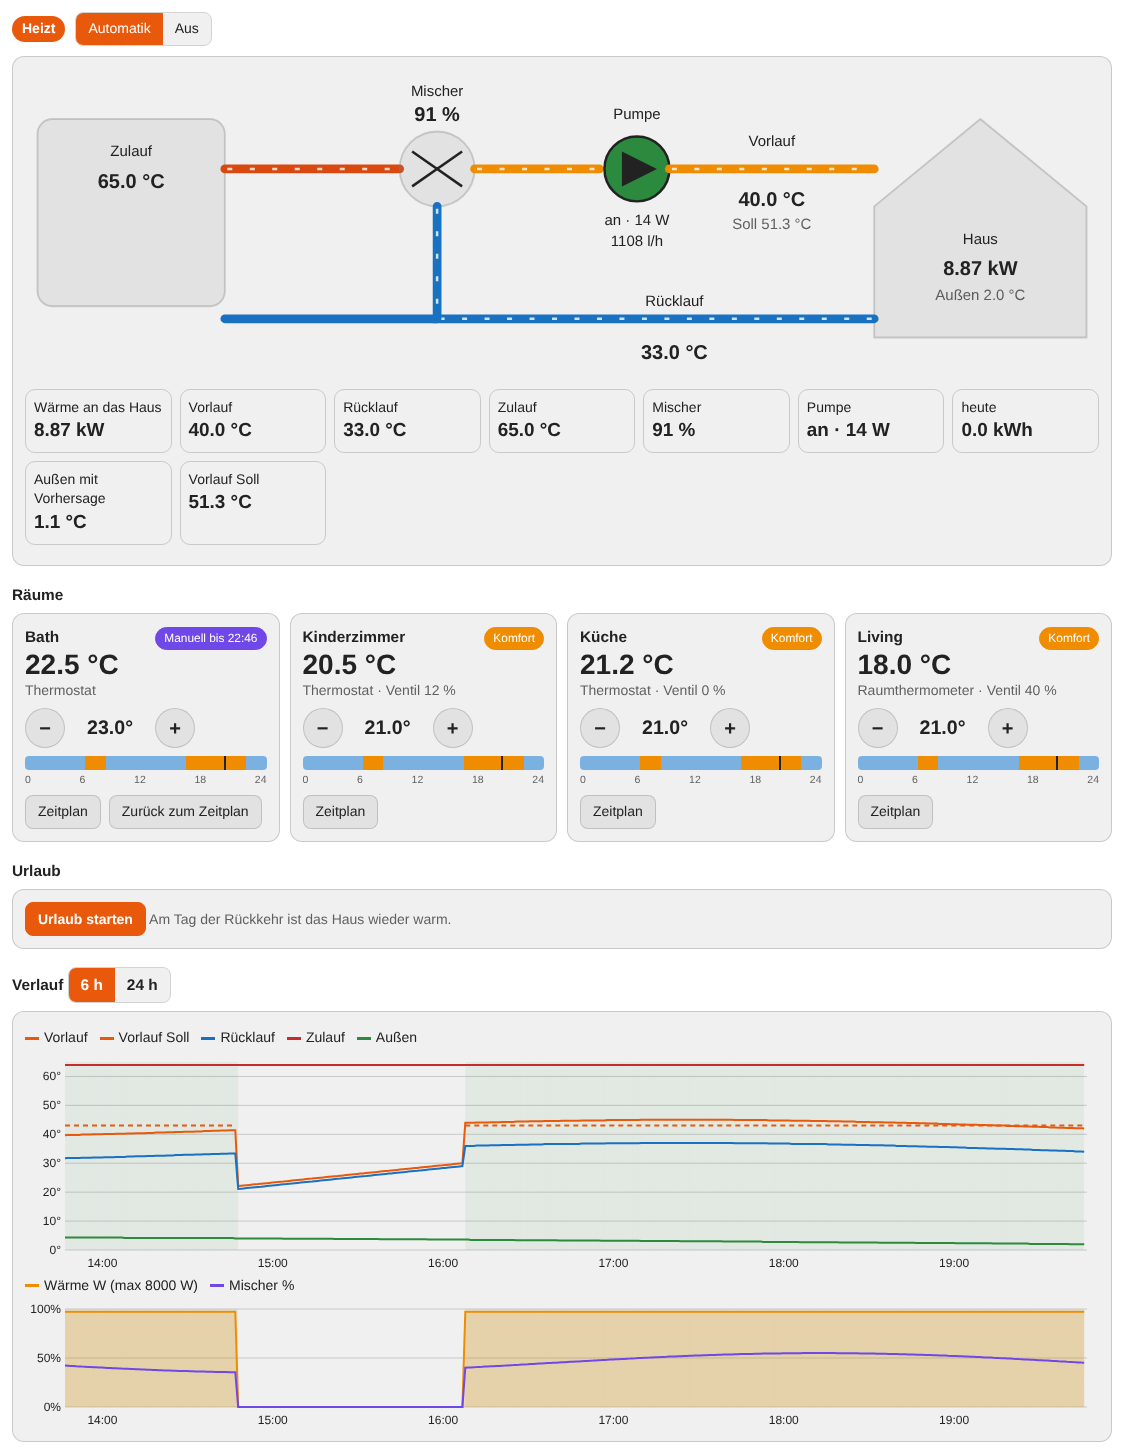
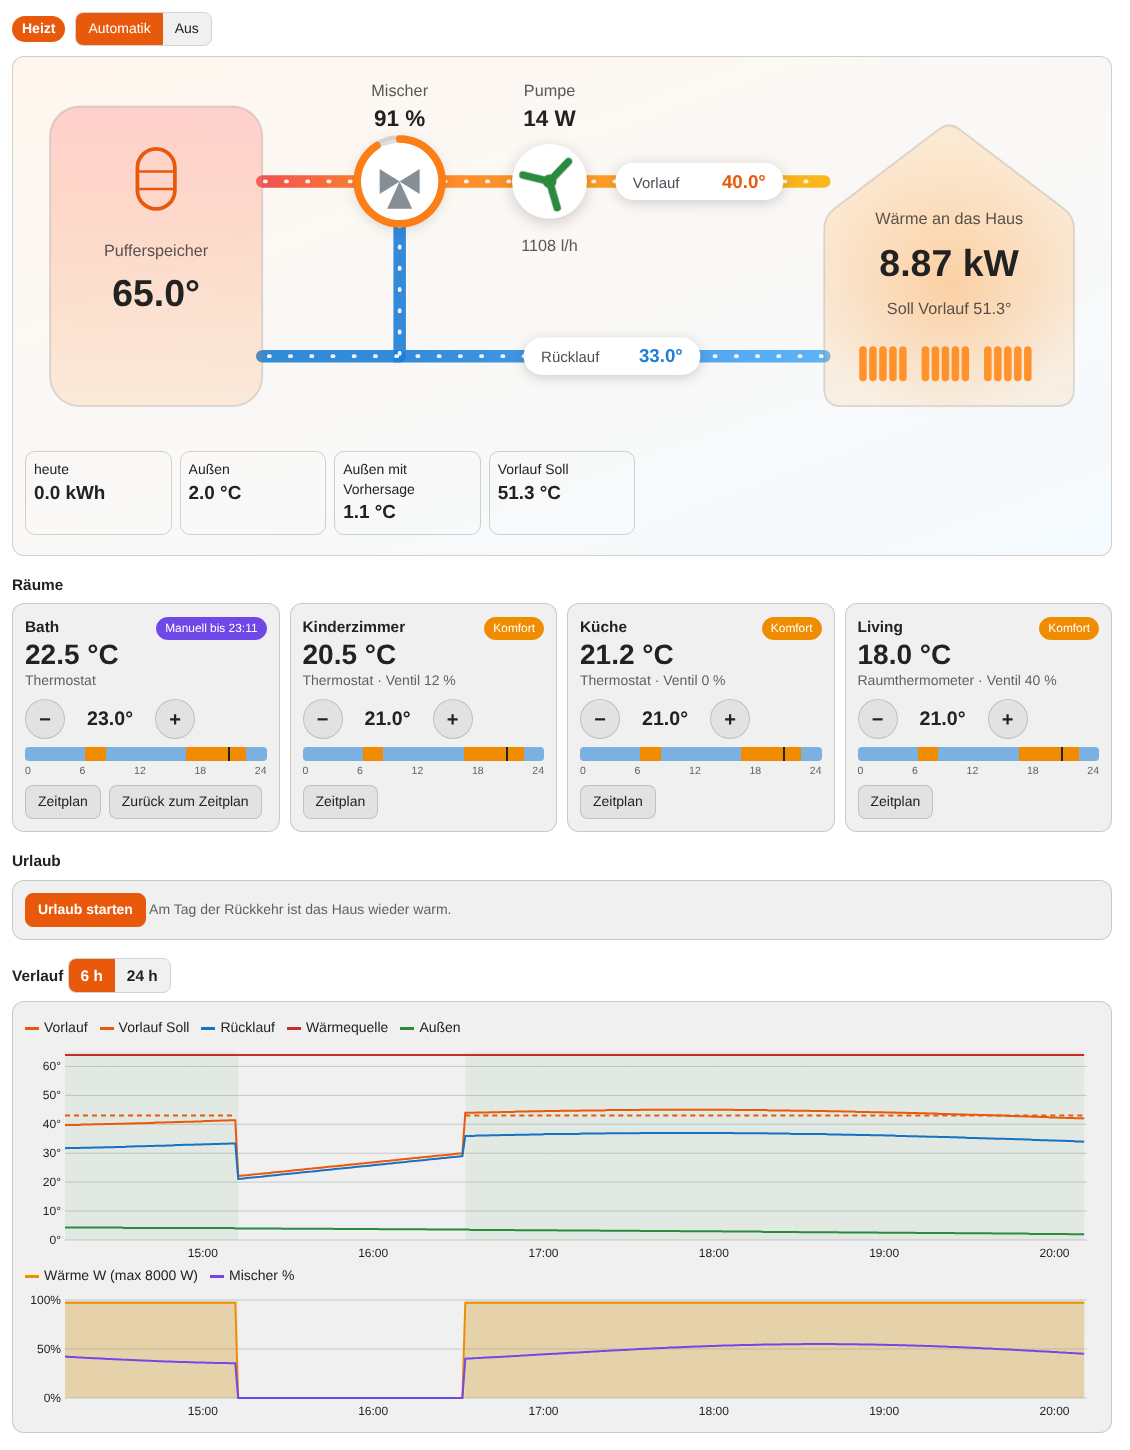
feat(heating_control): modern hydraulic picture, heat source type instead of supply
Claude-Session: https://claude.ai/code/session_01SXixEbUFp3gc7Upey2uY8f

Changed region(s): [[0.0, 0.0621, 0.9912, 0.9931], [0.8982, 0.4034, 0.9912, 0.4655], [0.5575, 0.2793, 0.6195, 0.3103]]

diff --git a/FHEM/bindings/python/fhempy/lib/heating_control/www/heating_control.js b/FHEM/bindings/python/fhempy/lib/heating_control/www/heating_control.js
@@ -4,7 +4,7 @@ var T = {
   de: {
     heating: "Heizt", idle: "Bereit", warm: "Räume warm", summer: "Sommer – keine Heizung",
     frost: "Frostschutz", off: "Aus (misst nur)", vacation: "Urlaub", setup: "Einrichtung fehlt",
-    auto: "Automatik", mode_off: "Aus", supply: "Zulauf", mixer: "Mischer", pump: "Pumpe",
+    auto: "Automatik", mode_off: "Aus", supply: "Wärmequelle", mixer: "Mischer", pump: "Pumpe",
     flow: "Vorlauf", ret: "Rücklauf", target: "Soll", house: "Haus", outdoor: "Außen",
     outdoor_eff: "mit Vorhersage", heat: "Wärme an das Haus", today: "heute", total: "gesamt",
     on: "an", off_: "aus", rooms: "Räume", comfort: "Komfort", eco: "Eco", manual: "Manuell",
@@ -26,14 +26,17 @@ var T = {
     no_rooms: "Keine Thermostate gefunden.", valve: "Ventil", source_t: "Raumthermometer",
     source_s: "Thermostat", flow_lh: "l/h", now: "jetzt", setup_missing: "Bitte noch einrichten:",
     roles: {mixer: "Mischer (0–100 %)", pump: "Umwälzpumpe (an/aus)", flow_sensor: "Vorlauf-Temperatur",
-      return_sensor: "Rücklauf-Temperatur", supply_sensor: "Zulauf (vor dem Mischer)",
+      return_sensor: "Rücklauf-Temperatur", supply_sensor: "Wärmequelle (Temperatur vor dem Mischer)",
       outdoor_sensor: "Außentemperatur (sonst vom Wetter)"},
-    days: ["Mo", "Di", "Mi", "Do", "Fr", "Sa", "So"]
+    days: ["Mo", "Di", "Mi", "Do", "Fr", "Sa", "So"],
+    source_type: "Art der Wärmequelle",
+    sources: {buffer: "Pufferspeicher", heatpump: "Wärmepumpe", wood: "Holzofen", pellet: "Pelletkessel",
+      gas: "Gastherme", oil: "Ölkessel", district: "Fernwärme", solar: "Solarthermie"}
   },
   en: {
     heating: "Heating", idle: "Ready", warm: "Rooms warm", summer: "Summer – no heating",
     frost: "Frost protection", off: "Off (measuring only)", vacation: "Vacation", setup: "Setup missing",
-    auto: "Automatic", mode_off: "Off", supply: "Supply", mixer: "Mixer", pump: "Pump",
+    auto: "Automatic", mode_off: "Off", supply: "Heat source", mixer: "Mixer", pump: "Pump",
     flow: "Flow", ret: "Return", target: "Target", house: "House", outdoor: "Outdoor",
     outdoor_eff: "with forecast", heat: "Heat to the house", today: "today", total: "total",
     on: "on", off_: "off", rooms: "Rooms", comfort: "Comfort", eco: "Eco", manual: "Manual",
@@ -55,9 +58,12 @@ var T = {
     no_rooms: "No thermostats found.", valve: "Valve", source_t: "room thermometer",
     source_s: "thermostat", flow_lh: "l/h", now: "now", setup_missing: "Please set up:",
     roles: {mixer: "Mixer (0–100 %)", pump: "Circulation pump (on/off)", flow_sensor: "Flow temperature",
-      return_sensor: "Return temperature", supply_sensor: "Supply (before the mixer)",
+      return_sensor: "Return temperature", supply_sensor: "Heat source (temperature before the mixer)",
       outdoor_sensor: "Outdoor temperature (else from weather)"},
-    days: ["Mo", "Tu", "We", "Th", "Fr", "Sa", "Su"]
+    days: ["Mo", "Tu", "We", "Th", "Fr", "Sa", "Su"],
+    source_type: "Type of heat source",
+    sources: {buffer: "Buffer tank", heatpump: "Heat pump", wood: "Wood stove", pellet: "Pellet boiler",
+      gas: "Gas boiler", oil: "Oil boiler", district: "District heating", solar: "Solar thermal"}
   }
 };
 var L = T[window.FHC_LANG] || T.en;
@@ -130,53 +136,105 @@ function dateText(iso) {
 }
 
 // --- hydraulic diagram ---
+var SOURCE_ICONS = {
+  buffer: '<rect x="-15" y="-24" width="30" height="48" rx="15" class="ic"/><path d="M-15 -6 H15 M-15 8 H15" class="ic thin"/>',
+  heatpump: '<rect x="-24" y="-18" width="48" height="36" rx="8" class="ic"/><circle cx="-6" cy="0" r="11" class="ic"/>' +
+    '<path d="M-6 -11 V11 M-17 0 H5" class="ic thin"/><path d="M12 -8 H18 M12 0 H18 M12 8 H18" class="ic thin"/>',
+  wood: '<path d="M0 -24 C10 -12 14 -6 10 4 C8 10 4 12 0 12 C-4 12 -9 9 -10 3 C-12 -6 -4 -10 0 -24 Z" class="ic"/>' +
+    '<path d="M-18 18 L18 24 M-18 24 L18 18" class="ic"/>',
+  pellet: '<path d="M0 -22 C10 -10 13 -4 9 6 C7 11 4 13 0 13 C-4 13 -9 10 -10 4 C-12 -4 -4 -8 0 -22 Z" class="ic"/>' +
+    '<circle cx="-10" cy="21" r="2.5" class="icf"/><circle cx="0" cy="22" r="2.5" class="icf"/><circle cx="10" cy="21" r="2.5" class="icf"/>',
+  gas: '<path d="M0 -24 C12 -10 16 -2 12 8 C9 16 4 18 0 18 C-4 18 -11 15 -12 7 C-14 -4 -4 -10 0 -24 Z" class="ic"/>' +
+    '<path d="M0 0 C5 6 5 12 0 14 C-5 12 -5 6 0 0 Z" class="ic thin"/>',
+  oil: '<path d="M0 -24 C10 -8 16 0 16 8 C16 17 9 22 0 22 C-9 22 -16 17 -16 8 C-16 0 -10 -8 0 -24 Z" class="ic"/>',
+  district: '<rect x="-22" y="-6" width="16" height="28" rx="3" class="ic"/><rect x="-2" y="-20" width="22" height="42" rx="3" class="ic"/>' +
+    '<path d="M4 -10 H14 M4 0 H14 M4 10 H14" class="ic thin"/>',
+  solar: '<circle cx="-8" cy="-12" r="7" class="ic"/><path d="M-22 22 L-12 4 H22 L12 22 Z M-17 13 H17 M5 4 L-5 22" class="ic thin"/>'
+};
+function pill(x, y, label, value, cls) {
+  // on a phone the drawing is scaled down, its texts are bigger (css)
+  var k = 1;
+  var w = k * (38 + label.length * 7 + value.length * 9.5), hh = 30 * k;
+  return '<g class="pillg" transform="translate(' + (x - w / 2) + ' ' + (y - hh / 2) + ')"><rect width="' + w + '" height="' + hh +
+    '" rx="' + hh / 2 + '" class="pill ' + (cls || "") + '"/><text x="' + 14 * k + '" y="' + 20 * k + '" class="pl">' +
+    esc(label) + '</text><text x="' + (w - 14 * k) + '" y="' + 20 * k + '" text-anchor="end" class="pv">' + esc(value) + '</text></g>';
+}
+function arc(cx, cy, r, pct) {
+  pct = Math.max(0, Math.min(100, pct || 0));
+  if (pct >= 99.9) return '<circle cx="' + cx + '" cy="' + cy + '" r="' + r + '" class="ring on"/>';
+  var a = pct / 100 * 2 * Math.PI, x = cx + r * Math.sin(a), y = cy - r * Math.cos(a);
+  return '<path class="ring on" d="M' + cx + ' ' + (cy - r) + ' A' + r + ' ' + r + ' 0 ' + (pct > 50 ? 1 : 0) +
+    ' 1 ' + x.toFixed(1) + ' ' + y.toFixed(1) + '"/>';
+}
+function heatText(w) {
+  if (w === null || w === undefined) return "–";
+  return w >= 1000 ? num(w / 1000, 2, " kW") : num(w, 0, " W");
+}
 function scheme() {
   var h = D.house || {};
-  var pumpText = h.pump ? L.on + (h.pump_power ? " · " + num(h.pump_power, 0, " W") : "") : L.off_;
-  var flowText = h.flow_lh ? num(h.flow_lh, 0, " " + L.flow_lh) : "";
-  var heat = h.heat_w !== null && h.heat_w !== undefined ? (h.heat_w >= 1000 ?
-    num(h.heat_w / 1000, 2, " kW") : num(h.heat_w, 0, " W")) : "–";
-  var s = '<svg viewBox="0 0 860 250" role="img" aria-label="' + esc(L.heat) + '">';
-  // supply from the heat source
-  s += '<rect class="box" x="10" y="40" width="150" height="150" rx="12"/>';
-  s += '<text x="85" y="70" text-anchor="middle">' + L.supply + '</text>';
-  s += '<text class="big" x="85" y="95" text-anchor="middle">' + deg(h.supply) + '</text>';
-  s += '<path class="pipe hot" d="M160 80 H300"/><path class="flowdash" d="M160 80 H300"/>';
-  // mixer
-  s += '<circle class="box" cx="330" cy="80" r="30"/>';
-  s += '<path d="M310 66 L350 94 M310 94 L350 66" stroke="currentColor" stroke-width="2"/>';
-  s += '<text x="330" y="22" text-anchor="middle">' + L.mixer + '</text>';
-  s += '<text class="big" x="330" y="42" text-anchor="middle">' + num(h.mixer, 0, " %") + '</text>';
-  s += '<path class="pipe warm" d="M360 80 H460"/><path class="flowdash" d="M360 80 H460"/>';
-  // pump
-  s += '<circle class="pump" cx="490" cy="80" r="26"/>';
-  s += '<path d="M478 66 L506 80 L478 94 Z" fill="currentColor"/>';
-  s += '<text x="490" y="40" text-anchor="middle">' + L.pump + '</text>';
-  s += '<text x="490" y="125" text-anchor="middle">' + esc(pumpText) + '</text>';
-  s += '<text x="490" y="142" text-anchor="middle">' + esc(flowText) + '</text>';
-  s += '<path class="pipe warm" d="M516 80 H680"/><path class="flowdash" d="M516 80 H680"/>';
-  s += '<text x="598" y="62" text-anchor="middle">' + L.flow + '</text>';
-  s += '<text class="big" x="598" y="110" text-anchor="middle">' + deg(h.flow) + '</text>';
-  s += '<text x="598" y="128" text-anchor="middle" class="muted">' + L.target + " " + deg(h.flow_target) + '</text>';
+  var src = SOURCE_ICONS[D.heat_source] ? D.heat_source : "buffer";
+  var pumpText = h.pump ? (h.pump_power ? num(h.pump_power, 0, " W") : L.on) : L.off_;
+  var flowText = h.pump && h.flow_lh ? num(h.flow_lh, 0, " " + L.flow_lh) : "";
+  var s = '<svg viewBox="0 0 860 300" role="img" aria-label="' + esc(L.heat) + '"><defs>' +
+    '<linearGradient id="fhcHot" gradientUnits="userSpaceOnUse" x1="190" x2="290"><stop offset="0" stop-color="#f03e3e"/><stop offset="1" stop-color="#fd7e14"/></linearGradient>' +
+    '<linearGradient id="fhcWarm" gradientUnits="userSpaceOnUse" x1="330" x2="640"><stop offset="0" stop-color="#fd7e14"/><stop offset="1" stop-color="#fab005"/></linearGradient>' +
+    '<linearGradient id="fhcCold" gradientUnits="userSpaceOnUse" x1="640" x2="300"><stop offset="0" stop-color="#4dabf7"/><stop offset="1" stop-color="#1c7ed6"/></linearGradient>' +
+    '<linearGradient id="fhcSrc" x1="0" y1="0" x2="0" y2="1"><stop offset="0" stop-color="#ff8787" stop-opacity=".35"/>' +
+    '<stop offset="1" stop-color="#fd7e14" stop-opacity=".12"/></linearGradient>' +
+    '<linearGradient id="fhcHouse" x1="0" y1="0" x2="0" y2="1"><stop offset="0" stop-color="#ffd8a8" stop-opacity=".45"/>' +
+    '<stop offset="1" stop-color="#ffa94d" stop-opacity=".12"/></linearGradient>' +
+    '<radialGradient id="fhcGlow"><stop offset="0" stop-color="#ff922b" stop-opacity=".55"/><stop offset="1" stop-color="#ff922b" stop-opacity="0"/></radialGradient>' +
+    '</defs>';
+  // pipes first, everything else on top
+  s += '<path class="pipe" stroke="url(#fhcHot)" d="M190 90 H266"/>';
+  s += '<path class="pipe" stroke="url(#fhcWarm)" d="M334 90 H640"/>';
+  s += '<path class="pipe" stroke="url(#fhcCold)" d="M640 230 H300 V124"/>';
+  s += '<path class="pipe" stroke="#1c7ed6" d="M300 230 H190"/>';
+  ["M190 90 H266", "M334 90 H640", "M640 230 H300 V124", "M300 230 H190"].forEach(function(d) {
+    s += '<path class="flowdash" d="' + d + '"/>';
+  });
+  // heat source
+  s += '<rect x="20" y="30" width="170" height="240" rx="24" class="tile" fill="url(#fhcSrc)"/>';
+  s += '<g transform="translate(105 88)">' + SOURCE_ICONS[src] + '</g>';
+  s += '<text x="105" y="150" text-anchor="middle" class="tl">' + esc(L.sources[src]) + '</text>';
+  s += '<text x="105" y="190" text-anchor="middle" class="tv">' + num(h.supply, 1, "°") + '</text>';
+  // mixer: valve with a ring for its position
+  s += '<circle cx="300" cy="90" r="34" class="node"/><circle cx="300" cy="90" r="34" class="ring"/>' + arc(300, 90, 34, h.mixer);
+  s += '<path d="M284 80 L300 90 L284 100 Z M316 80 L300 90 L316 100 Z M290 112 L300 90 L310 112 Z" class="valve"/>';
+  s += '<text x="300" y="22" text-anchor="middle" class="tl">' + L.mixer + '</text>';
+  s += '<text x="300" y="46" text-anchor="middle" class="tv sm">' + num(h.mixer, 0, " %") + '</text>';
+  // pump with a turning impeller
+  s += '<circle cx="420" cy="90" r="30" class="node pumpnode"/>';
+  s += '<g class="impeller" style="transform-origin:420px 90px"><path d="M420 90 L420 68 M420 90 L439 101 M420 90 L401 101" class="blade"/>' +
+    '<circle cx="420" cy="90" r="5" class="hub"/></g>';
+  s += '<text x="420" y="22" text-anchor="middle" class="tl">' + L.pump + '</text>';
+  s += '<text x="420" y="46" text-anchor="middle" class="tv sm">' + esc(pumpText) + '</text>';
+  if (flowText) s += '<text x="420" y="146" text-anchor="middle" class="tl">' + esc(flowText) + '</text>';
+  s += pill(540, 90, L.flow, num(h.flow, 1, "°"), "hot");
+  s += pill(470, 230, L.ret, num(h["return"], 1, "°"), "cold");
   // house
-  s += '<path class="box" d="M680 110 L765 40 L850 110 V215 H680 Z"/>';
-  s += '<text x="765" y="140" text-anchor="middle">' + L.house + '</text>';
-  s += '<text class="big" x="765" y="165" text-anchor="middle">' + heat + '</text>';
-  s += '<text x="765" y="185" text-anchor="middle" class="muted">' + L.outdoor + " " + deg(h.outdoor) + '</text>';
-  // return
-  s += '<path class="pipe cold" d="M680 200 H330 V110"/><path class="flowdash" d="M680 200 H330 V110"/>';
-  s += '<path class="pipe cold" d="M330 200 H160"/>';
-  s += '<text x="520" y="190" text-anchor="middle">' + L.ret + '</text>';
-  s += '<text class="big" x="520" y="232" text-anchor="middle">' + deg(h["return"]) + '</text>';
+  s += '<circle cx="740" cy="170" r="110" fill="url(#fhcGlow)" class="glow"/>';
+  s += '<path d="M640 128 Q640 118 648 112 L732 48 Q740 42 748 48 L832 112 Q840 118 840 128 V256 Q840 270 826 270 H654 Q640 270 640 256 Z"' +
+    ' class="tile" fill="url(#fhcHouse)"/>';
+  [668, 718, 768].forEach(function(x) {
+    s += '<g class="radiator">';
+    for (var i = 0; i < 5; i++) s += '<rect x="' + (x + i * 8) + '" y="222" width="6" height="28" rx="3"/>';
+    s += '</g>';
+  });
+  s += '<text x="740" y="124" text-anchor="middle" class="tl">' + L.heat + '</text>';
+  s += '<text x="740" y="166" text-anchor="middle" class="tv">' + heatText(h.heat_w) + '</text>';
+  s += '<text x="740" y="196" text-anchor="middle" class="tl">' + L.target + " " + L.flow + " " + num(h.flow_target, 1, "°") + '</text>';
   s += '</svg>';
   var k = '<div class="kpi">';
-  k += '<div>' + L.heat + '<b>' + heat + '</b></div>';
-  k += '<div>' + L.flow + '<b>' + deg(h.flow) + '</b></div>';
-  k += '<div>' + L.ret + '<b>' + deg(h["return"]) + '</b></div>';
-  k += '<div>' + L.supply + '<b>' + deg(h.supply) + '</b></div>';
-  k += '<div>' + L.mixer + '<b>' + num(h.mixer, 0, " %") + '</b></div>';
-  k += '<div>' + L.pump + '<b>' + esc(pumpText) + '</b></div>';
+  // on a phone the drawing only shows pictures, the values are here
+  k += '<div class="mob">' + L.flow + '<b>' + deg(h.flow) + '</b></div>';
+  k += '<div class="mob">' + L.ret + '<b>' + deg(h["return"]) + '</b></div>';
+  k += '<div class="mob">' + esc(L.sources[src]) + '<b>' + deg(h.supply) + '</b></div>';
+  k += '<div class="mob">' + L.mixer + '<b>' + num(h.mixer, 0, " %") + '</b></div>';
+  k += '<div class="mob">' + L.pump + '<b>' + esc(pumpText) + (flowText ? " · " + esc(flowText) : "") + '</b></div>';
+  k += '<div class="mob">' + L.heat + '<b>' + heatText(h.heat_w) + '</b></div>';
   k += '<div>' + L.today + '<b>' + num(h.heat_today, 1, " kWh") + '</b></div>';
+  k += '<div>' + L.outdoor + '<b>' + deg(h.outdoor) + '</b></div>';
   k += '<div>' + L.outdoor + " " + L.outdoor_eff + '<b>' + deg(h.outdoor_eff) + '</b></div>';
   k += '<div>' + L.flow + " " + L.target + '<b>' + deg(h.flow_target) + '</b></div>';
   k += '</div>';
@@ -661,6 +719,9 @@ function setup() {
     h += '<tr><td>' + L.roles[attr] + '</td><td>' + control +
       '</td><td><button data-attr="' + attr + '">' + L.apply + '</button></td></tr>';
   });
+  h += '<tr><td>' + L.source_type + '</td><td>' + select("fhcA_heat_source", D.heat_source,
+    Object.keys(L.sources).map(function(k) { return [k, L.sources[k]]; }), "") +
+    '</td><td><button data-attr="heat_source">' + L.apply + '</button></td></tr>';
   h += '<tr><td>' + L.pump_model + '</td><td>' + select("fhcA_pump_model", st.pump_model,
     st.pump_models.map(function(m) { return [m, m]; }), "") + '</td><td><button data-attr="pump_model">' + L.apply + '</button></td></tr>';
   h += '<tr><td>' + L.pump_setting + '</td><td>' + select("fhcA_pump_setting", st.pump_setting,
@@ -723,7 +784,7 @@ root.addEventListener("click", function(ev) {
 window.fhcLive = function(data) {
   if (!data || data.name !== DEV) return;
   var point = data.point;
-  ["mode", "state", "house", "rooms", "vacation", "now"].forEach(function(k) { if (k in data) D[k] = data[k]; });
+  ["mode", "heat_source", "state", "house", "rooms", "vacation", "now"].forEach(function(k) { if (k in data) D[k] = data[k]; });
   D.history = D.history || [];
   if (point && (!D.history.length || D.history[D.history.length - 1][0] < point[0])) D.history.push(point);
   if (D.curve && D.house) D.curve.current = [D.house.outdoor_eff, D.house.flow_target];

diff --git a/FHEM/bindings/python/fhempy/lib/heating_control/www/heating_control.css b/FHEM/bindings/python/fhempy/lib/heating_control/www/heating_control.css
@@ -1,4 +1,4 @@
-.fhc{--hot:#d9480f;--warm:#e8590c;--cold:#1971c2;--eco:#1c7ed6;--comfort:#f08c00;
+.fhc{--card:rgba(128,128,128,.16);--hot:#d9480f;--warm:#e8590c;--cold:#1971c2;--eco:#1c7ed6;--comfort:#f08c00;
 --ok:#2b8a3e;--line:rgba(128,128,128,.35);--soft:rgba(128,128,128,.12);
 max-width:1100px;margin:0 0 18px 0;line-height:1.4;font-size:14px}
 .fhc *{box-sizing:border-box}
@@ -25,16 +25,36 @@ font-weight:bold;line-height:1}
 .fhc .scheme svg,.fhc .chart svg{width:100%;height:auto;display:block}
 .fhc svg text{fill:currentColor;font-size:12px}
 .fhc svg .big{font-size:16px;font-weight:bold}
-.fhc svg .pipe{fill:none;stroke-width:7;stroke-linecap:round}
-.fhc svg .pipe.hot{stroke:var(--hot)}
-.fhc svg .pipe.warm{stroke:var(--comfort)}
-.fhc svg .pipe.cold{stroke:var(--cold)}
-.fhc svg .flowdash{fill:none;stroke:#fff;stroke-width:2;stroke-dasharray:4 14;opacity:0}
-.fhc.running svg .flowdash{opacity:.8;animation:fhcflow 1.2s linear infinite}
-@keyframes fhcflow{to{stroke-dashoffset:-18}}
-.fhc svg .box{fill:var(--soft);stroke:var(--line);stroke-width:1.5}
-.fhc svg .pump{fill:var(--soft);stroke:currentColor;stroke-width:2}
-.fhc.running svg .pump{fill:var(--ok)}
+.fhc .scheme{background:linear-gradient(160deg,rgba(255,146,43,.08),rgba(77,171,247,.06))}
+.fhc svg .pipe{fill:none;stroke-width:10;stroke-linecap:round;opacity:.9}
+.fhc svg .flowdash{fill:none;stroke:#fff;stroke-width:3;stroke-linecap:round;stroke-dasharray:1 16;opacity:0}
+.fhc.running svg .flowdash{opacity:.9;animation:fhcflow .9s linear infinite}
+@keyframes fhcflow{to{stroke-dashoffset:-17}}
+.fhc svg .tile{stroke:rgba(128,128,128,.25);stroke-width:1.5}
+.fhc svg .node{fill:#fff;stroke:none;filter:drop-shadow(0 3px 6px rgba(0,0,0,.18))}
+.fhc svg .ring{fill:none;stroke:rgba(128,128,128,.25);stroke-width:6}
+.fhc svg .ring.on{stroke:#fd7e14;stroke-linecap:round}
+.fhc svg .valve{fill:#868e96}
+.fhc svg .blade{stroke:#868e96;stroke-width:6;stroke-linecap:round}
+.fhc svg .hub{fill:#868e96}
+.fhc.running svg .blade,.fhc.running svg .hub{stroke:#2b8a3e;fill:#2b8a3e}
+.fhc.running svg .impeller{animation:fhcspin 1.1s linear infinite}
+@keyframes fhcspin{to{transform:rotate(360deg)}}
+.fhc svg .glow{opacity:0;transition:opacity 1s}
+.fhc.running svg .glow{opacity:.6}
+.fhc svg .radiator rect{fill:#adb5bd}
+.fhc.running svg .radiator rect{fill:#ff922b}
+.fhc svg .ic{fill:none;stroke:#e8590c;stroke-width:3;stroke-linejoin:round;stroke-linecap:round}
+.fhc svg .ic.thin{stroke-width:2}
+.fhc svg .icf{fill:#e8590c}
+.fhc svg .tl{font-size:13px;opacity:.75}
+.fhc svg .tv{font-size:30px;font-weight:bold}
+.fhc svg .tv.sm{font-size:18px}
+.fhc svg .pill{fill:#fff;filter:drop-shadow(0 2px 5px rgba(0,0,0,.18))}
+.fhc svg .pl{font-size:12px;fill:#495057}
+.fhc svg .pv{font-size:15px;font-weight:bold;fill:#212529}
+.fhc svg .pill.hot~.pv{fill:#e8590c}
+.fhc svg .pill.cold~.pv{fill:#1c7ed6}
 .fhc svg .gl{stroke:var(--line);stroke-width:1}
 .fhc svg .l{fill:none;stroke-width:2}
 .fhc svg .area{opacity:.25}
@@ -75,4 +95,5 @@ max-width:100%}
 margin:8px 0}
 .fhc .kpi div{border:1px solid var(--line);border-radius:10px;padding:8px}
 .fhc .kpi b{display:block;font-size:1.35em}
-@media (max-width:600px){.fhc .scheme .wide{overflow-x:auto}.fhc .scheme .wide svg{min-width:620px}.fhc .room .temp{font-size:1.7em}}
+.fhc .kpi .mob{display:none}
+@media (max-width:600px){.fhc svg .tl,.fhc svg .tv,.fhc svg .pillg{display:none}.fhc .kpi .mob{display:block}.fhc .room .temp{font-size:1.7em}}

diff --git a/FHEM/bindings/python/fhempy/lib/heating_control/heating_control.py b/FHEM/bindings/python/fhempy/lib/heating_control/heating_control.py
@@ -45,11 +45,21 @@ GETS = {
 }
 ROOM_KEY = re.compile(r"[^A-Za-z0-9_]")
 MODES = ("auto", "off")
+HEAT_SOURCES = (
+    "buffer",
+    "heatpump",
+    "wood",
+    "pellet",
+    "gas",
+    "oil",
+    "district",
+    "solar",
+)
 
 ATTRS = {
     "mixer": {
         "default": "",
-        "help": "Mixer 0-100 %: device[:set command], e.g. Mischer:pct. "
+        "help": "Mixer 0-100 %: device[:set command], e.g. mixer:pct. "
         "Choose it on the detail page.",
     },
     "mixer_invert": {
@@ -108,8 +118,14 @@ ATTRS = {
     },
     "supply_sensor": {
         "default": "",
-        "help": "Temperature before the mixer (Zulauf, from the heat source): "
-        "device:reading.",
+        "help": "Temperature of the heat source before the mixer: device:reading.",
+    },
+    "heat_source": {
+        "default": "buffer",
+        "options": ",".join(HEAT_SOURCES),
+        "help": "What delivers the heat, only for the picture and the name on "
+        "the detail page: buffer tank, heat pump, wood stove, pellets, gas, oil, "
+        "district heating, solar.",
     },
     "outdoor_sensor": {
         "default": "",
@@ -1261,6 +1277,7 @@ class heating_control(generic.FhemModule):
         data = {
             "name": self.hash["NAME"] if hasattr(self, "hash") else "",
             "mode": self.mode,
+            "heat_source": self._attr_heat_source,
             "state": self.state_text(),
             "house": self.house,
             "rooms": [room.view() for room in self.rooms.values()],

diff --git a/FHEM/bindings/python/fhempy/lib/heating_control/README.md b/FHEM/bindings/python/fhempy/lib/heating_control/README.md
@@ -38,7 +38,8 @@ confirm them with **Apply**:
 |---|---|
 | Mixer | a Shelly with `pct`/`position`/`brightness` 0-100 (e.g. MQTT2_DEVICE) |
 | Circulation pump | a switchable device with `on`/`off`, ideally measuring its power |
-| Flow / return / supply temperature | `device:reading`, e.g. the temperature add-on of a Shelly |
+| Flow / return / heat source temperature | device and reading, one device may deliver all of them |
+| Type of heat source | buffer tank, heat pump, wood stove, pellets, gas, oil, district heating, solar (picture and name) |
 | Outdoor temperature | optional, otherwise the weather device |
 | Weather | found automatically: `openmeteo_weather` (recommended), `Weather`, ... |
 | Pump type and setting | all Grundfos ALPHA types, AUTOADAPT, PP1-3, CP1-3, I/II/III |
@@ -59,7 +60,7 @@ heat meter use `flow_factor` to calibrate, or `fixed_flow` for a known flow.
 |---|---|
 | `state` | `heating`, `warm` (all rooms warm, pump off), `summer`, `frost`, `vacation`, `off`, `setup: ...` |
 | `flow_temp`, `flow_target` | flow temperature and its target |
-| `return_temp`, `supply_temp` | return and supply (before the mixer) |
+| `return_temp`, `supply_temp` | return and heat source (before the mixer) |
 | `outdoor_temp`, `outdoor_effective` | outdoor temperature, with forecast |
 | `mixer`, `pump`, `pump_power`, `flow_rate` | mixer %, pump on/off, W, estimated l/h |
 | `heat_power`, `heat_today`, `heat_energy` | heat to the house in W, kWh today, kWh total |
